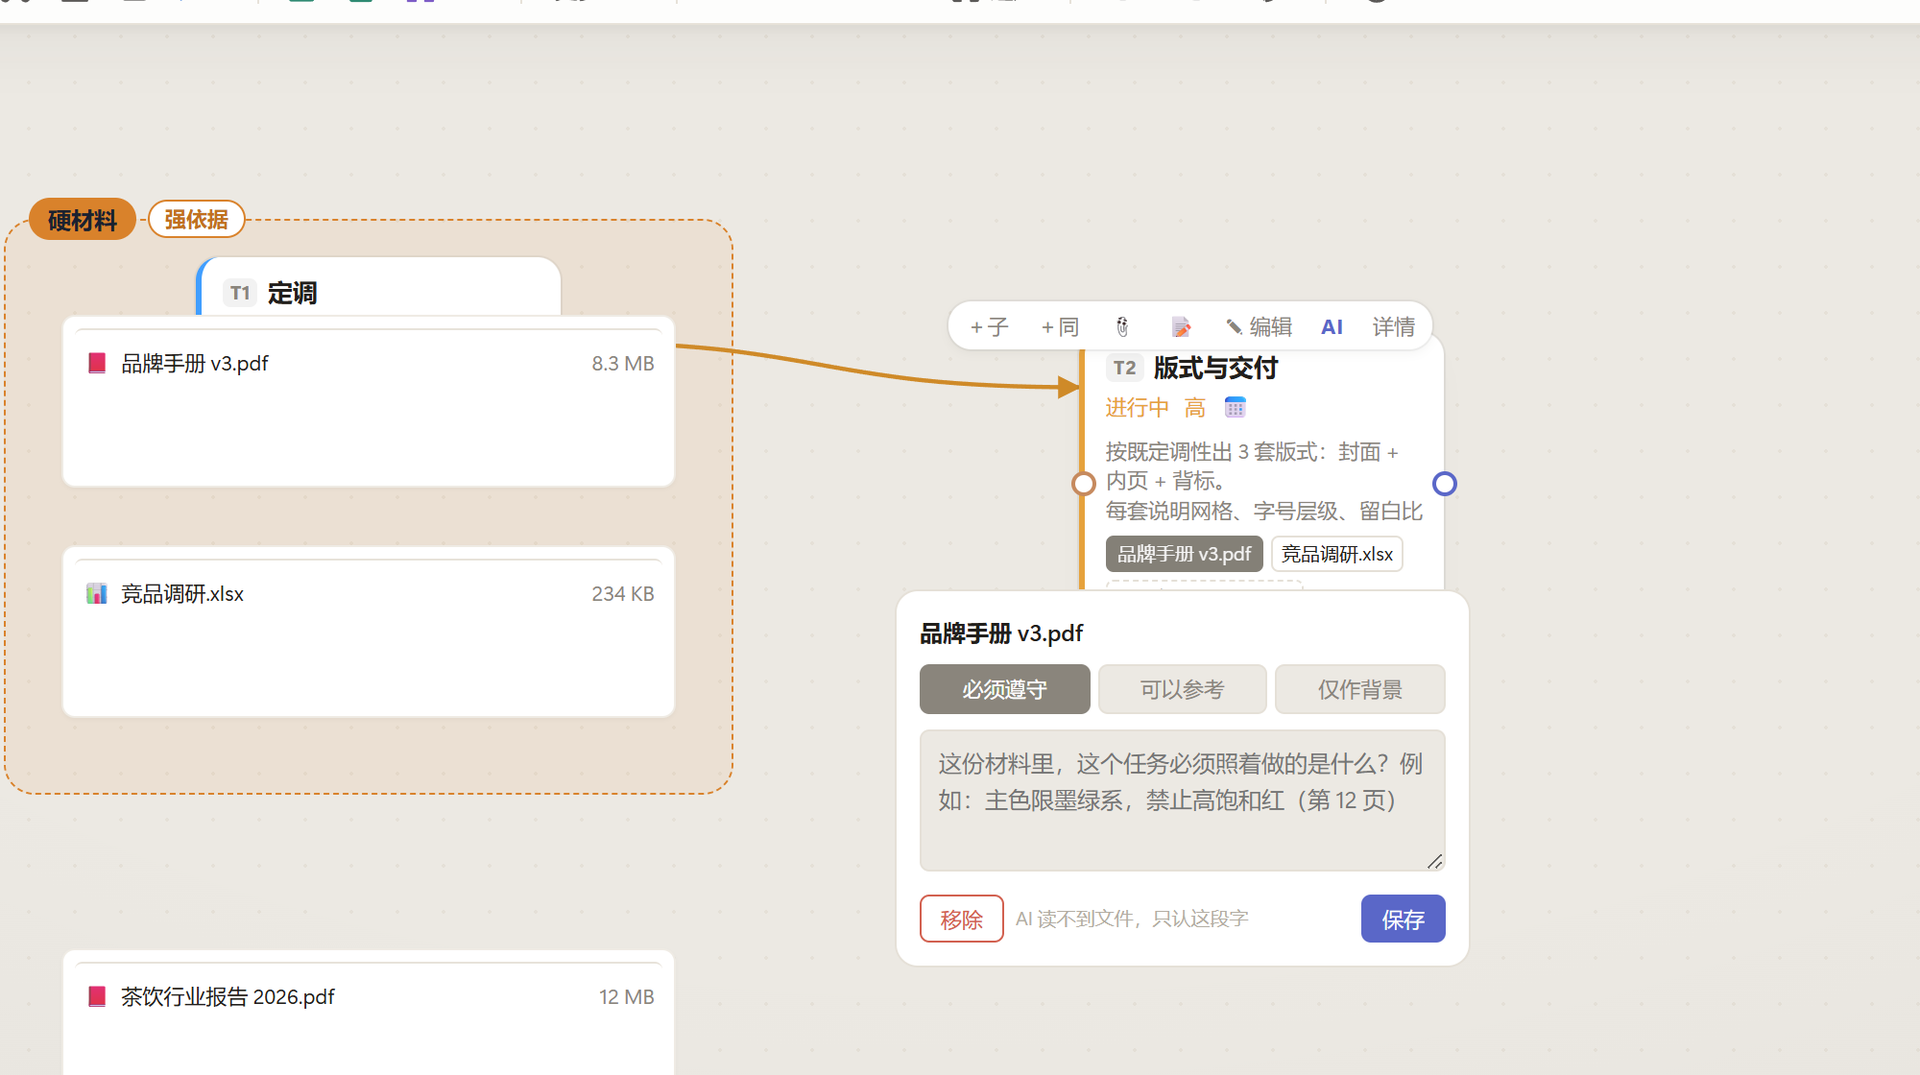
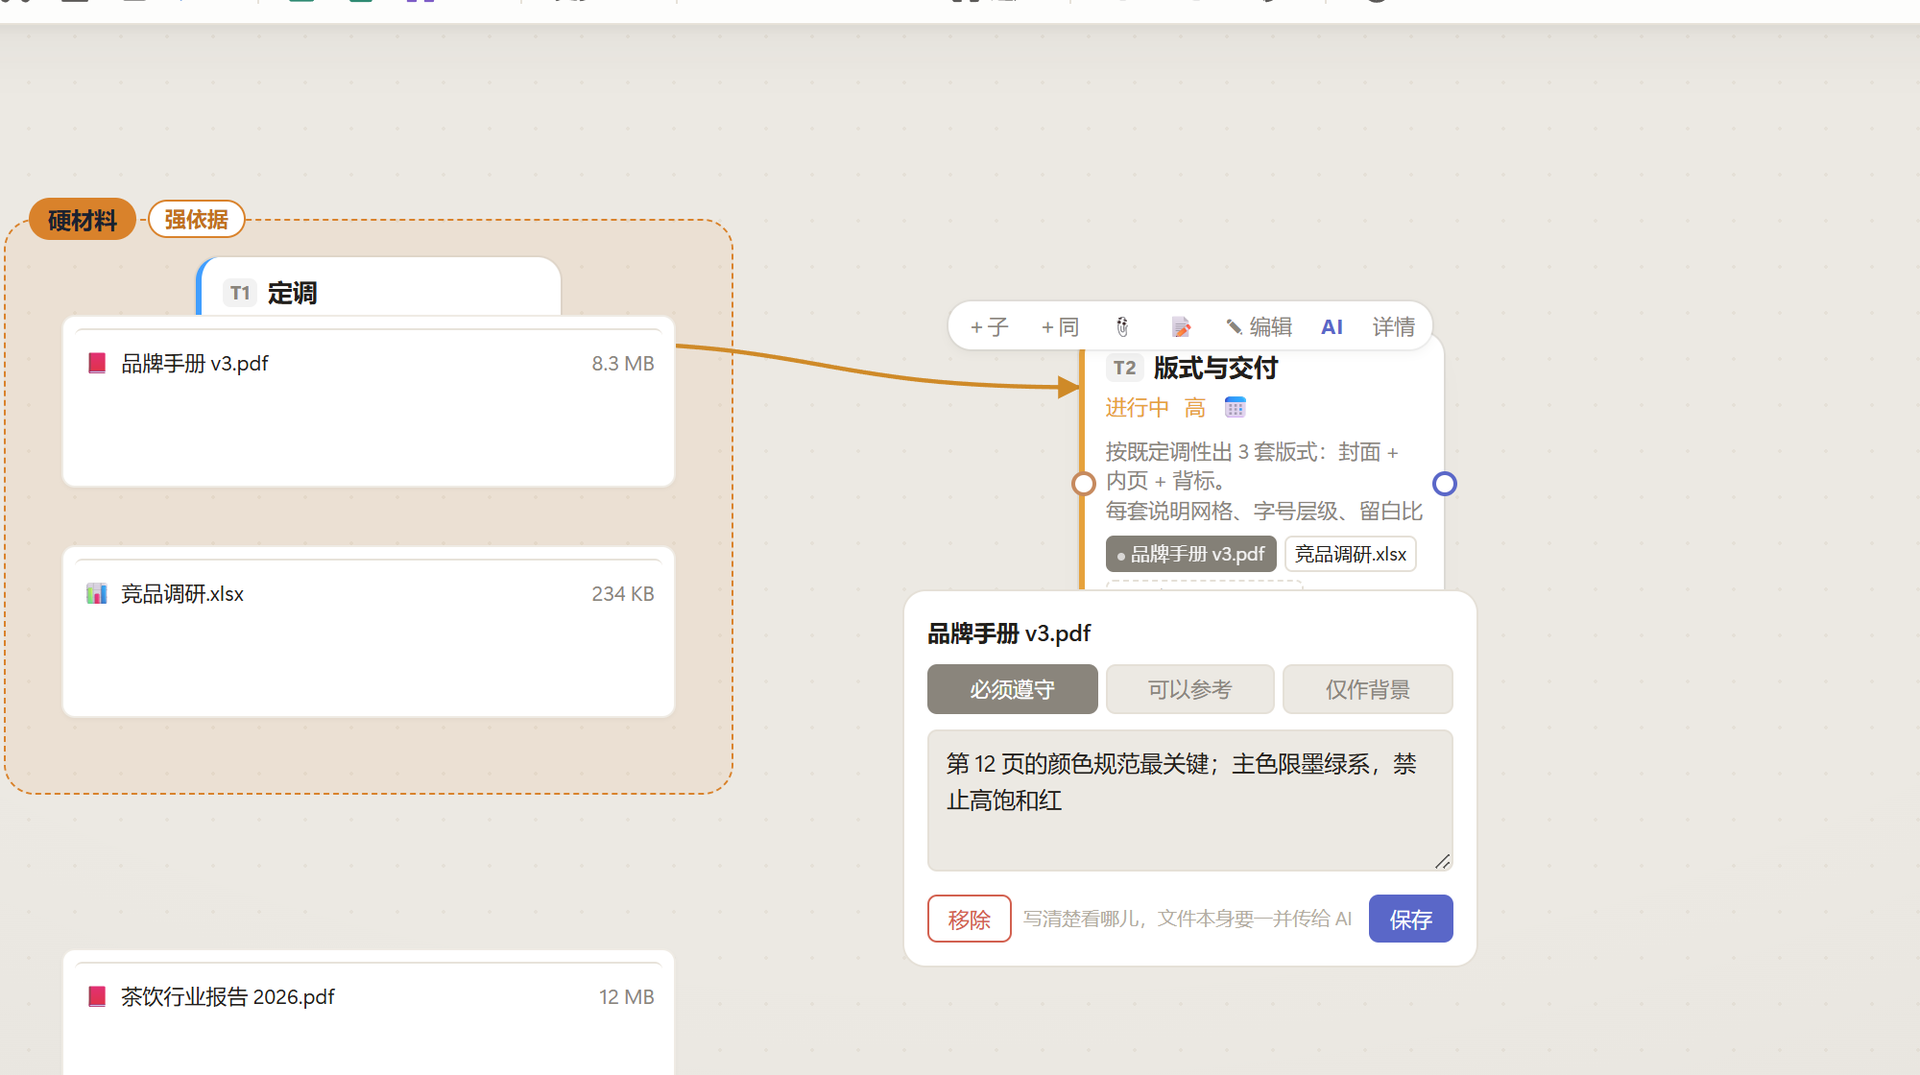
fix(AI): 指令改为「移交材料清单」，不再试图代读文件内容
多模态模型能直接读 PDF / 图片，之前把要点定位成「把材料内容传进去」是方向错了。

改为：指令里明确写「下面 N 个文件要一并传给我」，使用者把文件拖过去，
AI 直接读原文件；要点只负责导航和约束——哪几页关键、什么不能违背、
冲突时听谁的。

- 材料段开头加移交说明，这是防止「以为光靠清单就够」的关键一句
- 交付要求补两条：要点不是文件内容的替代；对不上时以文件为准并说出来
- 缺口措辞从「AI 读不到内容」改成「没说重点，容易抓错地方」
- 气泡 placeholder 与底部提示同步（写清楚看哪儿，文件本身要一并传）
- 弹窗顶部说明改为「粘这段 + 把文件一并拖过去」
- 文档：使用指南第 9 节「要点」改名「帮它找到重点」，改造方案第四节同步

Changed region(s): [[0.4688, 0.5526, 0.7812, 0.8902], [0.5625, 0.4912, 0.75, 0.5526]]

diff --git a/app/src/aiPrompt.ts b/app/src/aiPrompt.ts
@@ -12,6 +12,11 @@
  *   - 上一环节 / 下一环节 / 父子 → board_edges(kind)
  *   - 要交什么                  → produce 边指向的文档或资料节点
  *
+ * ⚠ 这段话不搬运材料内容。多模态模型能直接读 PDF / 图片，把文件一并拖过去就行；
+ * 这段话要做的是「移交材料清单」——哪几个文件、各自多硬、重点在哪儿、冲突时听谁的。
+ * 所以要点（point）的定位是导航和约束，不是内容替身：
+ *   200 页的规范书，让 AI 知道只看第 12 页，比把第 12 页抄一遍更稳。
+ *
  * 三档等级不写数值权重：AI 拿到 0.7 不知道该干什么，拿到「冲突时以它为准」
  * 才知道怎么做。这也是为什么等级挂在关系上（同一份资料对不同任务可以不同档）。
  */
@@ -283,6 +288,12 @@ export function buildTaskPrompt(store: PromptStore, taskId: number): string {
     out.push("（这个任务还没有挂任何资料。）");
     gaps.push("任务上没有挂资料，AI 没有任何依据");
   } else {
+    // 这句是整段话里最要紧的一句：不写它，使用者会以为光靠下面这些条目就够了，
+    // 而 AI 其实一个文件也没看到。
+    out.push(
+      `（下面 ${refs.length} 个文件要一并传给我，直接看原文件就行。` +
+        `这几句说的是「它们各自多硬、该重点看哪儿」，不是文件内容本身。）`
+    );
     for (const lv of [0, 1, 2]) {
       const list = refs.filter((r) => r.level === lv);
       if (!list.length) continue;
@@ -305,13 +316,13 @@ export function buildTaskPrompt(store: PromptStore, taskId: number): string {
         }」。以任务里的定级为准。）`
       );
     }
-    // 只给了文件名、没给要点 = AI 拿不到内容，这会直接决定它答得准不准
+    // 没写要点 = AI 拿到文件却不知道看哪儿。文件能让它读，但重点得人点。
     const noPoint = refs.filter((r) => !r.point);
     if (noPoint.length) {
       gaps.push(
-        `${noPoint.length} 份材料还没写要点（${noPoint
+        `${noPoint.length} 份材料还没说重点（${noPoint
           .map((r) => r.label)
-          .join("、")}）。我只给了文件名，AI 读不到里面的内容`
+          .join("、")}）。文件传过去它会读，但不点出重点，它容易抓错地方`
       );
     }
   }
@@ -371,7 +382,8 @@ export function buildTaskPrompt(store: PromptStore, taskId: number): string {
   }
   out.push("- 用到哪份材料，就在那句后面注明它的名字");
   if (refs.some((r) => r.point)) {
-    out.push("- 材料我写了要点，按要点来；要点没覆盖到的地方，说出来别自己补");
+    out.push("- 我写的「要点」只是帮你定位重点，不是文件内容的替代；具体以文件为准");
+    out.push("- 要点和文件对不上时，以文件为准，并告诉我哪里对不上");
   }
   out.push("");
 

diff --git a/app/src/components/AiPromptDialog.vue b/app/src/components/AiPromptDialog.vue
@@ -27,12 +27,12 @@ function refreshHint() {
 <template>
   <el-dialog v-model="aiPromptOpen" :title="aiPromptTitle" width="720px" append-to-body>
     <div class="ai-tip">
-      下面这段直接粘给 AI 就行。材料按「重要依据 / 参考 / 弱参考」分好了，
-      产出物和上下游也是从白板上读的。
+      把下面这段直接粘给 AI，然后把清单里列的文件一并拖过去（它读不到你硬盘上的文件）。
+      材料按「必须遵守 / 可以参考 / 仅作背景」分好了，产出物和上下游也是从白板上读的。
     </div>
     <textarea class="ai-text" readonly :value="aiPromptText"></textarea>
     <div class="ai-foot">
-      <span>内容来自这个任务本身：说明、材料等级、所在分区、上下游、产出物。</span>
+      <span>内容来自这个任务本身：说明、材料等级、重点、上下游、产出物。文件要另外拖给 AI。</span>
       <button class="ai-link" @click="refreshHint">为什么不是固定的？</button>
     </div>
     <template #footer>

diff --git a/app/src/components/Whiteboard.vue b/app/src/components/Whiteboard.vue
@@ -4130,14 +4130,14 @@ const numOf = (t: Task) => store.numberOf(t.id);
         v-model="refPoint"
         class="rm-point"
         rows="3"
-        placeholder="这份材料里，这个任务必须照着做的是什么？例如：主色限墨绿系，禁止高饱和红（第 12 页）"
+        placeholder="这份材料里，这个任务该重点看哪儿？例如：第 12 页的颜色规范最关键；主色限墨绿，禁止高饱和红"
         @keydown.stop
       ></textarea>
       <div class="rm-foot">
         <button class="rm-del" title="把这份资料从这个任务上移除" @click="removeRefFromMenu">
           移除
         </button>
-        <span class="rm-tip">AI 读不到文件，只认这段字</span>
+        <span class="rm-tip">写清楚看哪儿，文件本身要一并传给 AI</span>
         <button class="rm-save" @click="saveRefPoint">保存</button>
       </div>
     </div>

diff --git a/app/src/types.ts b/app/src/types.ts
@@ -97,10 +97,11 @@ export interface TaskRef {
   level: RefLevel;
   ord: number;
   /**
-   * 这条依据对「这个任务」的要点，一句话。
+   * 这条依据对「这个任务」的重点，一句话：哪几页关键、什么不能违背、
+   * 冲突时听谁的。
    *
-   * AI 读不到本地文件，只给文件名它不知道里面写了什么；这句是唯一能把
-   * 材料内容传进去的位置。同一份资料对不同任务可以摘不同的话。
+   * 文件本身是随指令一并传给 AI 的（多模态模型能直接读 PDF / 图片），
+   * 这句是导航和约束，不是内容替身。同一份资料对不同任务可以摘不同的话。
    */
   point: string;
 }

diff --git a/docs/白板改造方案.md b/docs/白板改造方案.md
@@ -97,7 +97,7 @@
 
 三处容易漏、现在会自动处理的地方：
 
-第一处是材料内容。软件能把文件类型、大小、所属分区带上，但这些都不是内容：AI 打不开硬盘上的 PDF，看到一个文件名只能写通用的话。所以每份资料挂到任务上时要写一句要点，说明这份材料里有什么是这个任务必须照做的。这句要点随材料一起进说明书，是目前唯一能把文件内容传给 AI 的位置。
+第一处是材料的移交方式。说明书里列的是清单，不是内容——软件在这几句话里带上的文件类型、大小、所属分区，AI 都用不上。所以清单开头会写明「下面这几个文件要一并传给我」，使用者照着把文件拖过去，AI 就能直接读原文件。这一点必须写出来，否则很容易以为光靠这几行字就够了。
 
 要点写在「这份资料对当前任务」这条关系上，不写在资料本身。同一份品牌手册，挂在配色任务上是「主色限墨绿系」，挂在文案任务上可能是「语体不用感叹句」，两处可以不一样。
 
